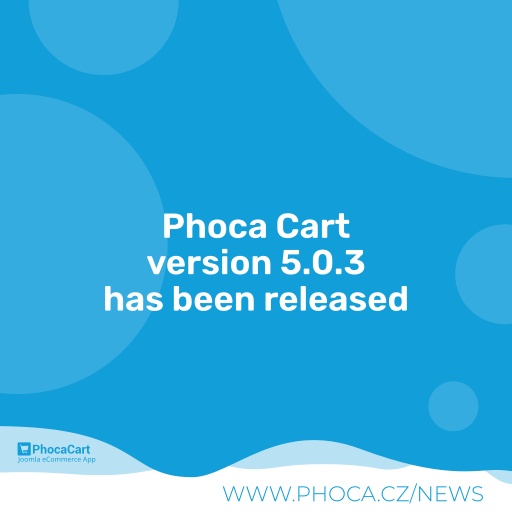
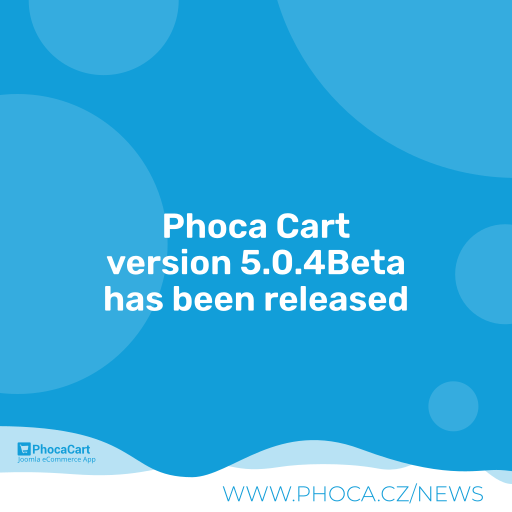
5.0.4Beta

Changed region(s): [[0.1875, 0.4688, 0.8125, 0.5625]]

diff --git a/admin/help/cs-CZ/screen.phocacart.html b/admin/help/cs-CZ/screen.phocacart.html
@@ -19,9 +19,9 @@ body {
 <p>&nbsp;</p>
 <p>&nbsp;</p>
 <p>
-<a href="https://www.phoca.cz/phocacart/" target="_blank">Stránka komponenty Phoca Cart</a><br />
-<a href="https://www.phoca.cz/documentation/" target="_blank">Dokumentace Phoca Cart</a><br />
-<a href="https://www.phoca.cz/forum/" target="_blank">Fórum Phoca Cart</a><br />
+<a href="http://www.phoca.cz/phocacart/" target="_blank">Stránka komponenty Phoca Cart</a><br />
+<a href="http://www.phoca.cz/documentation/" target="_blank">Dokumentace Phoca Cart</a><br />
+<a href="http://www.phoca.cz/forum/" target="_blank">Fórum Phoca Cart</a><br />
 </p>
 <p>&nbsp;</p>
 <p>&nbsp;</p>

diff --git a/script.php b/script.php
@@ -8,8 +8,9 @@
  * @license http://www.gnu.org/copyleft/gpl.html GNU General Public License version 2 or later;
  */
 defined( '_JEXEC' ) or die( 'Restricted access' );
-use Joomla\CMS\Filesystem\Folder;
-use Joomla\CMS\Filesystem\File;
+use Joomla\Filesystem\Folder;
+use Joomla\Filesystem\File;
+use Joomla\Filesystem\Path;
 use Joomla\CMS\Factory;
 use Joomla\CMS\HTML\HTMLHelper;
 use Joomla\CMS\Language\Text;
@@ -88,7 +89,7 @@ class com_phocacartInstallerScript
 
 		$msg = '';
 		foreach ($this->createFolders as $folder) {
-			if (!Folder::exists( JPATH_ROOT . '/' . $folder)) {
+			if (!is_dir(Path::clean( JPATH_ROOT . '/' . $folder))) {
 				if (Folder::create( JPATH_ROOT . '/' . $folder )) {
 					$data = "<html>\n<body bgcolor=\"#FFFFFF\">\n</body>\n</html>";
 					File::write(JPATH_ROOT . '/' . $folder . '/' . "index.html", $data);

diff --git a/admin/libraries/src/Filesystem/Folder.php b/admin/libraries/src/Filesystem/Folder.php
@@ -1,0 +1,22 @@
+<?php
+/* @package Joomla
+ * @copyright Copyright (C) Open Source Matters. All rights reserved.
+ * @license http://www.gnu.org/copyleft/gpl.html GNU/GPL, see LICENSE.php
+ * @extension Phoca Extension
+ * @copyright Copyright (C) Jan Pavelka www.phoca.cz
+ * @license http://www.gnu.org/copyleft/gpl.html GNU/GPL
+ */
+
+namespace Phoca\PhocaCart\Filesystem;
+
+use Joomla\Filesystem\Path;
+
+defined('_JEXEC') or die;
+
+abstract class Folder extends \Joomla\Filesystem\Folder
+{
+    public static function exists($path)
+    {
+        return is_dir(Path::clean($path));
+    }
+}

diff --git a/admin/libraries/src/Filesystem/File.php b/admin/libraries/src/Filesystem/File.php
@@ -1,0 +1,22 @@
+<?php
+/* @package Joomla
+ * @copyright Copyright (C) Open Source Matters. All rights reserved.
+ * @license http://www.gnu.org/copyleft/gpl.html GNU/GPL, see LICENSE.php
+ * @extension Phoca Extension
+ * @copyright Copyright (C) Jan Pavelka www.phoca.cz
+ * @license http://www.gnu.org/copyleft/gpl.html GNU/GPL
+ */
+
+namespace Phoca\PhocaCart\Filesystem;
+
+use Joomla\Filesystem\Path;
+
+defined('_JEXEC') or die;
+
+abstract class File extends \Joomla\Filesystem\File
+{
+    public static function exists($file)
+    {
+        return is_file(Path::clean($file));
+    }
+}

diff --git a/admin/libraries/phocacart/file/upload.php b/admin/libraries/phocacart/file/upload.php
@@ -13,9 +13,9 @@ use Joomla\CMS\Factory;
 use Joomla\CMS\Session\Session;
 use Joomla\CMS\Language\Text;
 use Joomla\CMS\Client\ClientHelper;
-use Joomla\CMS\Filesystem\File;
+use Phoca\PhocaCart\Filesystem\File;
 use Joomla\CMS\Filesystem\Path;
-use Joomla\CMS\Filesystem\Folder;
+use Phoca\PhocaCart\Filesystem\Folder;
 use Joomla\CMS\Uri\Uri;
 use Joomla\CMS\HTML\HTMLHelper;
 jimport( 'joomla.filesystem.folder' );

diff --git a/admin/libraries/phocacart/file/thumbnail.php b/admin/libraries/phocacart/file/thumbnail.php
@@ -11,9 +11,9 @@
 defined( '_JEXEC' ) or die( 'Restricted access' );
 use Joomla\CMS\Object\CMSObject;
 use Joomla\CMS\Filesystem\Path;
-use Joomla\CMS\Filesystem\File;
+use Phoca\PhocaCart\Filesystem\File;
 use Joomla\CMS\Factory;
-use Joomla\CMS\Filesystem\Folder;
+use Phoca\PhocaCart\Filesystem\Folder;
 use Joomla\CMS\Language\Text;
 jimport( 'joomla.filesystem.folder' );
 jimport( 'joomla.filesystem.file' );

diff --git a/admin/controllers/phocacartimport.php b/admin/controllers/phocacartimport.php
@@ -10,7 +10,7 @@ defined('_JEXEC') or die();
 use Joomla\CMS\Language\Text;
 use Joomla\CMS\Session\Session;
 use Joomla\CMS\Factory;
-use Joomla\CMS\Filesystem\File;
+use Phoca\PhocaCart\Filesystem\File;
 use Joomla\CMS\Layout\FileLayout;
 require_once JPATH_COMPONENT.'/controllers/phocacartcommon.php';
 class PhocaCartCpControllerPhocaCartImport extends PhocaCartCpControllerPhocaCartCommon {

diff --git a/admin/controllers/phocacartupload.php b/admin/controllers/phocacartupload.php
@@ -12,8 +12,8 @@ use Joomla\CMS\Factory;
 use Joomla\CMS\Client\ClientHelper;
 use Joomla\CMS\Language\Text;
 use Joomla\CMS\Filesystem\Path;
-use Joomla\CMS\Filesystem\Folder;
-use Joomla\CMS\Filesystem\File;
+use Phoca\PhocaCart\Filesystem\Folder;
+use Phoca\PhocaCart\Filesystem\File;
 jimport('joomla.client.helper');
 jimport('joomla.filesystem.file');
 jimport('joomla.filesystem.folder');

diff --git a/admin/models/phocacartsubmititem.php b/admin/models/phocacartsubmititem.php
@@ -16,8 +16,8 @@ use Joomla\CMS\Filter\OutputFilter;
 use Joomla\CMS\Language\Text;
 use Joomla\Utilities\ArrayHelper;
 use Joomla\CMS\Log\Log;
-use Joomla\CMS\Filesystem\Folder;
-use Joomla\CMS\Filesystem\File;
+use Phoca\PhocaCart\Filesystem\Folder;
+use Phoca\PhocaCart\Filesystem\File;
 use Joomla\CMS\Form\Form;
 use Joomla\CMS\Language\LanguageHelper;
 use Joomla\String\StringHelper;

diff --git a/admin/models/phocacartitem.php b/admin/models/phocacartitem.php
@@ -22,8 +22,8 @@ use Joomla\CMS\Language\Text;
 use Joomla\CMS\Plugin\PluginHelper;
 use Joomla\Utilities\ArrayHelper;
 use Joomla\CMS\Log\Log;
-use Joomla\CMS\Filesystem\File;
-use Joomla\CMS\Filesystem\Folder;
+use Phoca\PhocaCart\Filesystem\File;
+use Phoca\PhocaCart\Filesystem\Folder;
 use Joomla\CMS\UCM\UCMType;
 use Joomla\CMS\Table\Observer\Tags;
 use Joomla\CMS\Form\Form;

diff --git a/admin/libraries/phocacart/file/file.php b/admin/libraries/phocacart/file/file.php
@@ -10,9 +10,9 @@
  */
 defined( '_JEXEC' ) or die( 'Restricted access' );
 use Joomla\CMS\Filesystem\Path;
-use Joomla\CMS\Filesystem\File;
+use Phoca\PhocaCart\Filesystem\File;
 use Joomla\CMS\HTML\HTMLHelper;
-use Joomla\CMS\Filesystem\Folder;
+use Phoca\PhocaCart\Filesystem\Folder;
 use Joomla\CMS\Language\Text;
 use Joomla\CMS\Factory;
 jimport( 'joomla.filesystem.folder' );

diff --git a/admin/views/phocacartthumba/view.json.php b/admin/views/phocacartthumba/view.json.php
@@ -11,8 +11,8 @@ use Joomla\CMS\MVC\View\HtmlView;
 use Joomla\CMS\Session\Session;
 use Joomla\CMS\Language\Text;
 use Joomla\CMS\Factory;
-use Joomla\CMS\Filesystem\File;
-use Joomla\CMS\Filesystem\Folder;
+use Phoca\PhocaCart\Filesystem\File;
+use Phoca\PhocaCart\Filesystem\Folder;
 use Joomla\CMS\Component\ComponentHelper;
 jimport( 'joomla.application.component.view');
 
